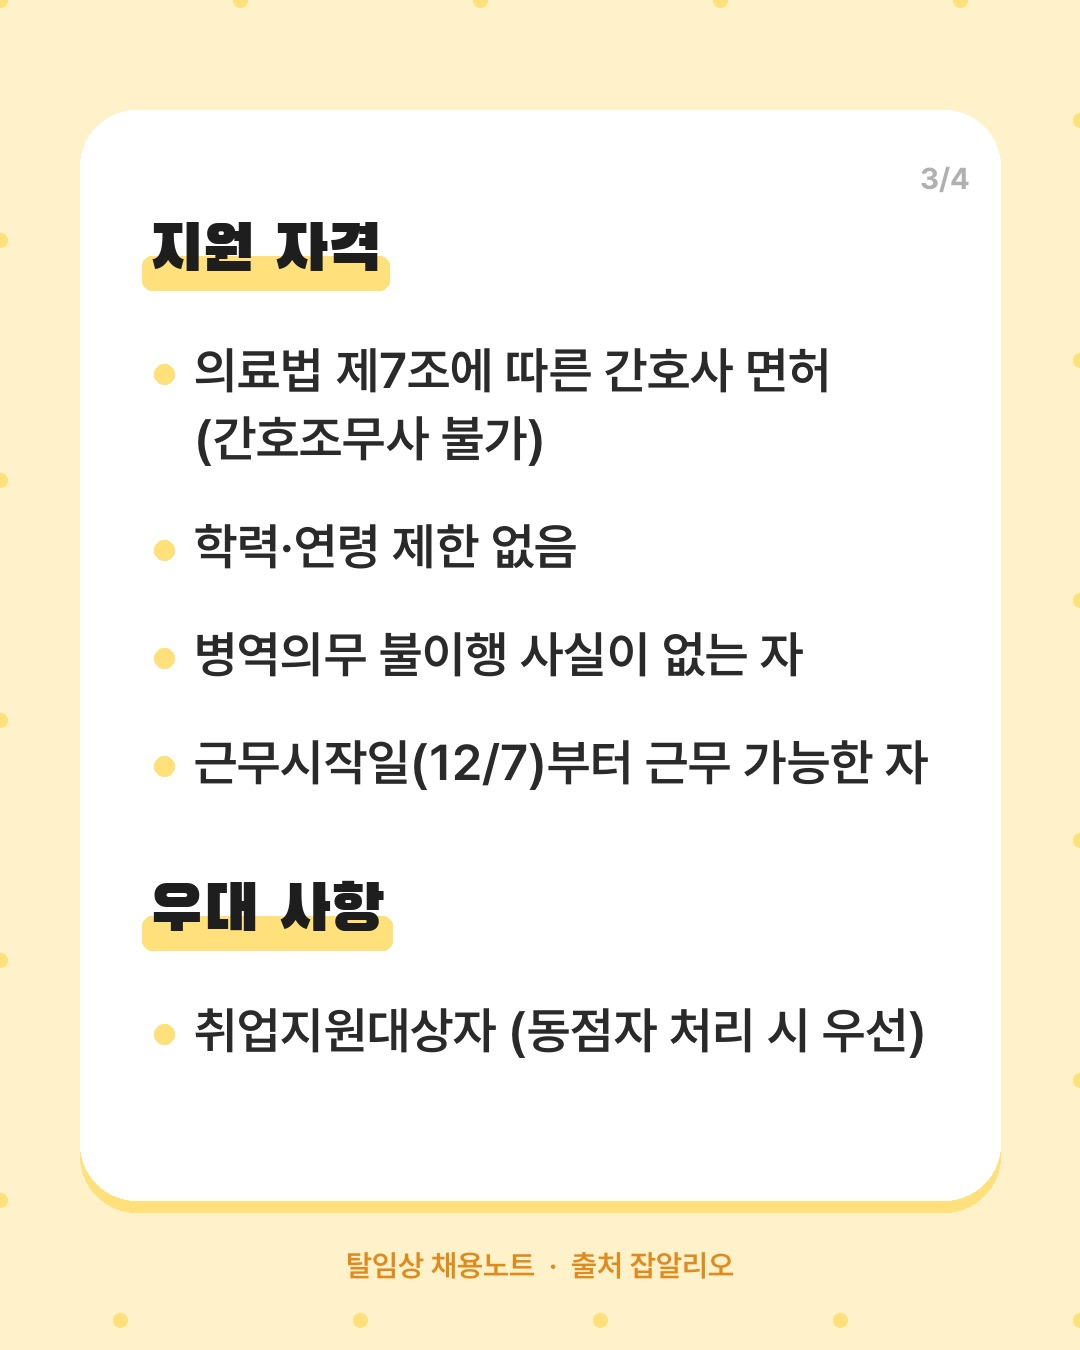
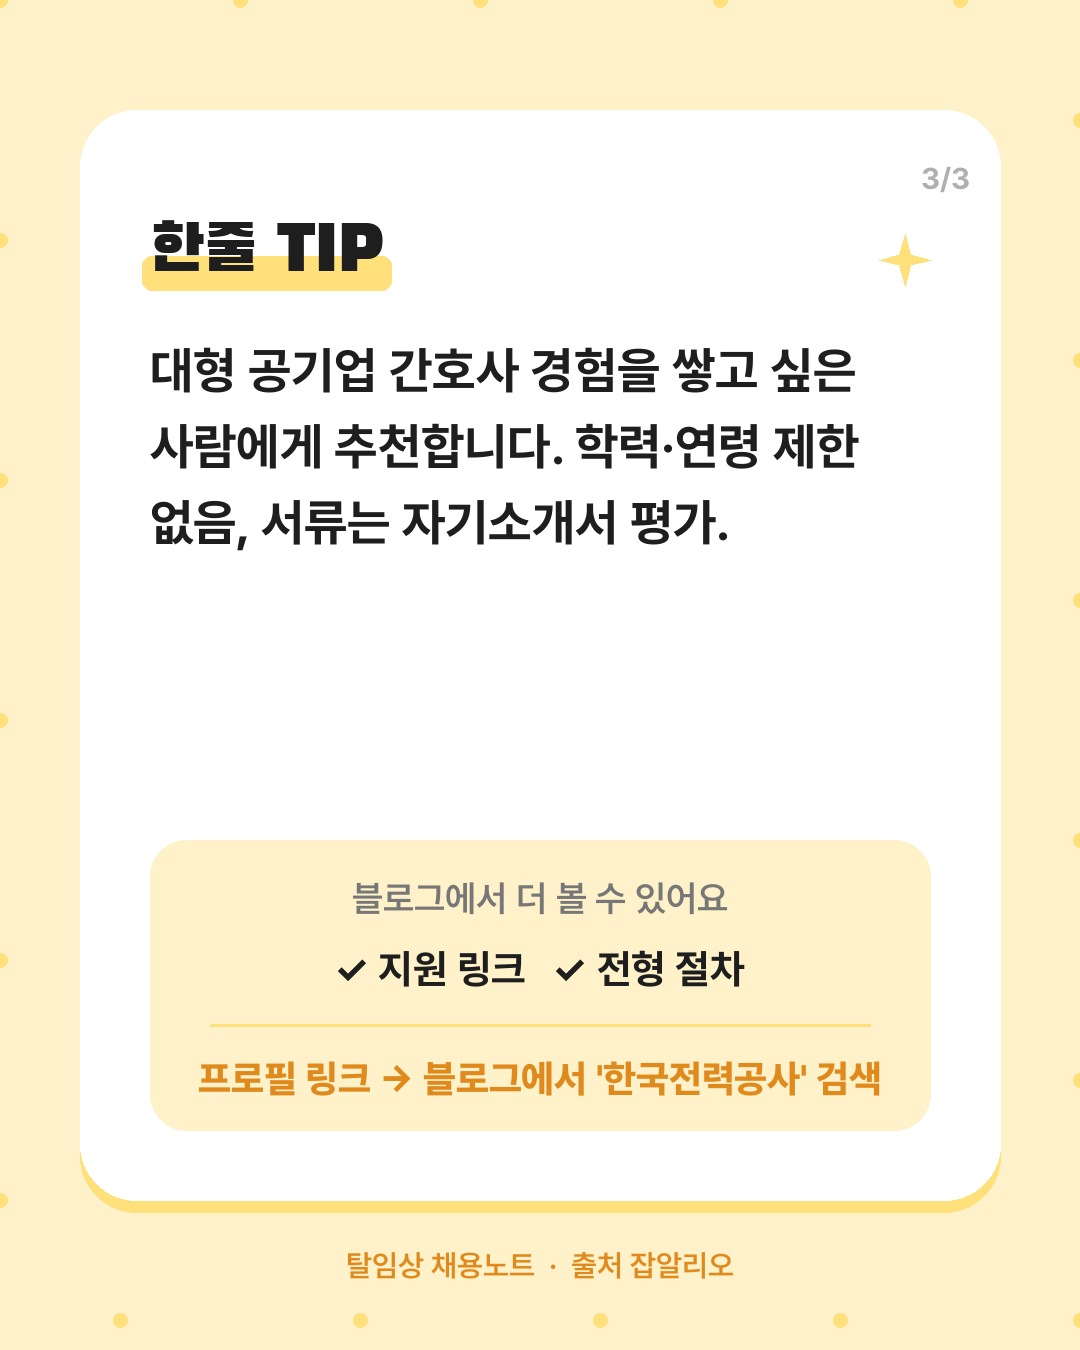
인스타: 조건 적으면 자격·우대와 한 장에, 제목만 남는 칸 방지, 마지막 장 안내 정리
Claude-Session: https://claude.ai/code/session_015ozFBvjxcWAyqLYfTbBGCZ

diff --git a/docs/2026-11-17/index.html b/docs/2026-11-17/index.html
@@ -43,7 +43,7 @@ a{color:var(--accent)}ul.days{padding-left:1.2em}
 <li><b>무기계약직 평균보수</b> : 약 3,683만 원</li>
 <li><b>정규직 평균 근속</b> : 약 10년 8개월</li>
 </ul><p>※ 기관 전체 기준 공시 금액이에요. 이 공고의 직무·고용형태 급여와는 다를 수 있어요.</p><p>&nbsp;</p>
-<h2>✅ 지원 자격</h2><ul><li>산업안전보건법 제21조 보건관리자 자격 중 하나 이상</li><li>→ 「의료법」에 따른 간호사 면허 소지자 해당</li><li>(그 외 산업보건지도사, 의사, 산업위생관리산업기사 등)</li></ul><p>&nbsp;</p>
+<h2>✅ 지원 자격</h2><ul><li>산업안전보건법 제21조 보건관리자 자격 보유자</li><li>간호사 면허 소지자는 보건관리자 자격에 해당</li></ul><p>&nbsp;</p>
 <h2>⭐ 우대 사항</h2><ul><li>공공기관 청년인턴 90일 이상 경력자 가점</li><li>청년·경력보유여성·비수도권·이전지역인재 가점</li><li>보훈·장애인 등 법정 가점</li></ul><p>&nbsp;</p>
 <h2>🧭 전형 절차</h2><ol><li>서류전형(4배수 이내)</li><li>면접전형(1배수 이내)</li><li>서류검증</li><li>최종합격</li></ol><p>&nbsp;</p>
 <h2>💬 리브의 한마디</h2><p>산업간호사로 가고 싶은데 경력이 없어 막막했다면, 공공기관 보건관리자 대체인력으로 첫 경력을 만드는 방법도 있어요. 신입 지원이 가능하다는 점이 가장 큰 장점이에요.</p><p>&nbsp;</p>
@@ -241,8 +241,8 @@ a{color:var(--accent)}ul.days{padding-left:1.2em}
 <span class="muted">썸네일: 이미지를 눌러 저장</span></div></div>
 
 <h2>📷 인스타 게시물 (공고 1개 = 1장)</h2>
-<div class="box"><div style="display:flex;flex-wrap:wrap"><a href="ig-01-1.jpg" download><img src="ig-01-1.jpg" alt="인스타 1-1" style="width:150px;border-radius:8px;border:1px solid var(--line);margin:0 6px 6px 0"></a><a href="ig-01-2.jpg" download><img src="ig-01-2.jpg" alt="인스타 1-2" style="width:150px;border-radius:8px;border:1px solid var(--line);margin:0 6px 6px 0"></a><a href="ig-01-3.jpg" download><img src="ig-01-3.jpg" alt="인스타 1-3" style="width:150px;border-radius:8px;border:1px solid var(--line);margin:0 6px 6px 0"></a><a href="ig-01-4.jpg" download><img src="ig-01-4.jpg" alt="인스타 1-4" style="width:150px;border-radius:8px;border:1px solid var(--line);margin:0 6px 6px 0"></a></div>
-<div><b>인스타 1. 한국고용정보원</b> <span class="muted">(4장 · 순서대로 올리세요)</span>
+<div class="box"><div style="display:flex;flex-wrap:wrap"><a href="ig-01-1.jpg" download><img src="ig-01-1.jpg" alt="인스타 1-1" style="width:150px;border-radius:8px;border:1px solid var(--line);margin:0 6px 6px 0"></a><a href="ig-01-2.jpg" download><img src="ig-01-2.jpg" alt="인스타 1-2" style="width:150px;border-radius:8px;border:1px solid var(--line);margin:0 6px 6px 0"></a><a href="ig-01-3.jpg" download><img src="ig-01-3.jpg" alt="인스타 1-3" style="width:150px;border-radius:8px;border:1px solid var(--line);margin:0 6px 6px 0"></a></div>
+<div><b>인스타 1. 한국고용정보원</b> <span class="muted">(3장 · 순서대로 올리세요)</span>
 <pre id="ic1" style="margin:8px 0">📌 한국고용정보원 보건관리자 대체인력 계약직 채용
 
 📍 근무지: 충북
@@ -269,8 +269,8 @@ a{color:var(--accent)}ul.days{padding-left:1.2em}
 💾 저장해두고 마감 체크
 
 #탈임상 #탈임상간호사 #간호사채용 #간호사이직 #간호사취업 #한국보건의료정보원 #EMR인증 #공공기관 #기간제</pre>
-<button onclick="copyText('ic2',this)">캡션 복사</button></div></div><div class="box"><div style="display:flex;flex-wrap:wrap"><a href="ig-03-1.jpg" download><img src="ig-03-1.jpg" alt="인스타 3-1" style="width:150px;border-radius:8px;border:1px solid var(--line);margin:0 6px 6px 0"></a><a href="ig-03-2.jpg" download><img src="ig-03-2.jpg" alt="인스타 3-2" style="width:150px;border-radius:8px;border:1px solid var(--line);margin:0 6px 6px 0"></a><a href="ig-03-3.jpg" download><img src="ig-03-3.jpg" alt="인스타 3-3" style="width:150px;border-radius:8px;border:1px solid var(--line);margin:0 6px 6px 0"></a><a href="ig-03-4.jpg" download><img src="ig-03-4.jpg" alt="인스타 3-4" style="width:150px;border-radius:8px;border:1px solid var(--line);margin:0 6px 6px 0"></a></div>
-<div><b>인스타 3. 한국전력공사</b> <span class="muted">(4장 · 순서대로 올리세요)</span>
+<button onclick="copyText('ic2',this)">캡션 복사</button></div></div><div class="box"><div style="display:flex;flex-wrap:wrap"><a href="ig-03-1.jpg" download><img src="ig-03-1.jpg" alt="인스타 3-1" style="width:150px;border-radius:8px;border:1px solid var(--line);margin:0 6px 6px 0"></a><a href="ig-03-2.jpg" download><img src="ig-03-2.jpg" alt="인스타 3-2" style="width:150px;border-radius:8px;border:1px solid var(--line);margin:0 6px 6px 0"></a><a href="ig-03-3.jpg" download><img src="ig-03-3.jpg" alt="인스타 3-3" style="width:150px;border-radius:8px;border:1px solid var(--line);margin:0 6px 6px 0"></a></div>
+<div><b>인스타 3. 한국전력공사</b> <span class="muted">(3장 · 순서대로 올리세요)</span>
 <pre id="ic3" style="margin:8px 0">📌 한국전력공사 경남본부 간호사 대체인력 기간제 채용
 
 📍 근무지: 경남

diff --git a/src/render.py b/src/render.py
@@ -460,31 +460,33 @@ def _ig_heading(d, x, y, text, pal) -> int:
     return y + 120
 
 
-def _ig_page(job: Job, sections: list[tuple[str, list[tuple[str, str]]]]):
+def _ig_page(job: Job, sections: list[tuple[str, list[tuple[str, str]]]], compact: bool = False):
     """한 장에 섹션 여러 개. 공간이 모자라면 남은 항목은 생략 (자세한 건 블로그)."""
     img, d, box, pal = _ig_frame(job)
-    fv, fl = font(50, "SemiBold"), font(42, "Bold")
-    x0, ylim = box[0] + 70, box[3] - 60
+    fv, fl = (font(42, "SemiBold"), font(38, "Bold")) if compact else (font(50, "SemiBold"), font(42, "Bold"))
+    LH, GAP = (56, 22) if compact else (68, 40)
+    x0, ylim = box[0] + 70, box[3] - (30 if compact else 60)
     maxw = box[2] - box[0] - 140
     y = box[1] + 110
     for si, (title, rows) in enumerate(sections):
         if si:
-            y += 40
-        if y + 150 > ylim:
+            y += 12 if compact else 40
+        first = wrap(d, rows[0][1], fv, maxw - (200 if rows[0][0] else 44), 4) if rows else []
+        if y + (100 if compact else 120) + len(first) * LH > ylim:
             break
-        y = _ig_heading(d, x0, y, title, pal)
+        y = _ig_heading(d, x0, y, title, pal) - (20 if compact else 0)
         for label, val in rows:
             tx = x0 + (200 if label else 44)
             lines = wrap(d, val, fv, maxw - (tx - x0), 4)
-            if y + len(lines) * 68 > ylim:
+            if y + len(lines) * LH > ylim:
                 break
             if label:
                 d.text((x0, y + 6), label, font=fl, fill=pal[2])
             else:
                 d.ellipse((x0 + 4, y + 24, x0 + 24, y + 44), fill=pal[1])
             for ln in lines:
-                d.text((tx, y), ln, font=fv, fill="#2A2A2A"); y += 68
-            y += 40
+                d.text((tx, y), ln, font=fv, fill="#2A2A2A"); y += LH
+            y += GAP
     return img, d, pal
 
 
@@ -492,19 +494,24 @@ def ig_slides(job: Job, today: date) -> list[Image.Image]:
     """표지 / 근무 조건 / 지원 자격·우대 / (주요 업무) / 한줄 TIP + 블로그에 있는 것.
     판단에 필요한 정보는 인스타에 충분히, 지원 링크·전형·복리후생은 블로그로."""
     from .blog import _org
+    from .blog import _emp
+    emp = _emp(job) or job.employment_type or ""
+    career = str((job.extra or {}).get("recrutSeNm") or "")
     cond = [(k, v) for k, v in (
         ("급여", job.salary or ""), ("근무", job.work_hours or ""), ("계약", job.contract_period or ""),
-        ("고용", job.employment_type or ""), ("근무지", job.address or job.location or ""),
+        ("고용", emp), ("경력", career), ("근무지", job.address or job.location or ""),
         ("인원", job.headcount or ""), ("학력", job.education or "")) if v]
     cond += [("", x) for x in (job.salary_detail or [])[:2]]
     qual = [("", q) for q in (job.qualifications or job.requirements or [])[:5]]
-    pref = [("", q) for q in (job.preferred or [])[:2]]
+    pref = [("", q) for q in (job.preferred or [])[:3]]
     duties = [("", q) for q in (job.duties or [])[:6]]
     pages = []
-    if cond:
+    if len(cond) <= 3:  # 조건이 적으면 자격과 한 장에
+        pages.append(_ig_page(job, [(t, r) for t, r in (("근무 조건", cond), ("지원 자격", qual), ("우대 사항", pref)) if r], compact=True))
+    else:
         pages.append(_ig_page(job, [("근무 조건", cond)]))
-    if qual or pref:
-        pages.append(_ig_page(job, [(t, r) for t, r in (("지원 자격", qual), ("우대 사항", pref)) if r]))
+        if qual or pref:
+            pages.append(_ig_page(job, [(t, r) for t, r in (("지원 자격", qual), ("우대 사항", pref)) if r]))
     if len(duties) >= 2:
         pages.append(_ig_page(job, [("주요 업무", duties)]))
     # 마지막 장: 한줄 TIP + 블로그에 정리된 것
@@ -515,16 +522,22 @@ def ig_slides(job: Job, today: date) -> list[Image.Image]:
     for ln in wrap(d, tip, font(50, "Bold"), box[2] - box[0] - 140, 5):
         d.text((x0, y), ln, font=font(50, "Bold"), fill="#1E1E1E"); y += 76
     on_blog = [x for x, v in (("지원 링크", True), ("전형 절차", job.process), ("복리후생", job.benefits),
-                              ("급여 세부", job.salary_detail), ("직무 상세", job.duties)) if v]
-    cy = box[3] - 400
-    d.rounded_rectangle((x0, cy, box[2] - 70, box[3] - 60), 36, fill=pal[0])
-    d.text((x0 + 40, cy + 40), "블로그에 정리해둔 것", font=font(40, "Bold"), fill="#555")
-    fx = font(42, "SemiBold")
-    for i, x in enumerate(on_blog[:4]):
-        tx, ty = x0 + 40 + (i % 2) * 400, cy + 110 + (i // 2) * 64
-        d.text((tx, ty), "✓ " + x, font=fx, fill=pal[2])
+                              ("급여 세부", job.salary_detail), ("직무 상세", job.duties)) if v][:4]
     key = _org(job).split()[-1] if _org(job) else ""
-    d.text((x0 + 40, box[3] - 120), "프로필 링크 → 블로그" + (f"에서 '{key}' 검색" if key else ""), font=font(38, "Bold"), fill="#1E1E1E")
+    bx0, bx1, by1 = x0, box[2] - 70, box[3] - 70
+    by0 = by1 - 290
+    d.rounded_rectangle((bx0, by0, bx1, by1), 36, fill=pal[0])
+    cxm = (bx0 + bx1) / 2
+    d.text((cxm, by0 + 58), "블로그에서 더 볼 수 있어요", font=font(36, "SemiBold"), fill="#777", anchor="mm")
+    def fit(txt, size, weight, maxw):
+        while size > 26 and d.textlength(txt, font=font(size, weight)) > maxw:
+            size -= 2
+        return font(size, weight)
+    checks = "   ".join("✓ " + x for x in on_blog)
+    d.text((cxm, by0 + 128), checks, font=fit(checks, 40, "Bold", bx1 - bx0 - 80), fill="#1E1E1E", anchor="mm")
+    d.line((bx0 + 60, by0 + 185, bx1 - 60, by0 + 185), fill=pal[1], width=3)
+    cta = "프로필 링크 → 블로그" + (f"에서 '{key}' 검색" if key else "")
+    d.text((cxm, by0 + 238), cta, font=fit(cta, 40, "ExtraBold", bx1 - bx0 - 80), fill=pal[2], anchor="mm")
     _sparkle(d, box[2] - 95, box[1] + 150, 26, pal[1])
     pages.append((img, d, pal))
     total = len(pages) + 1
